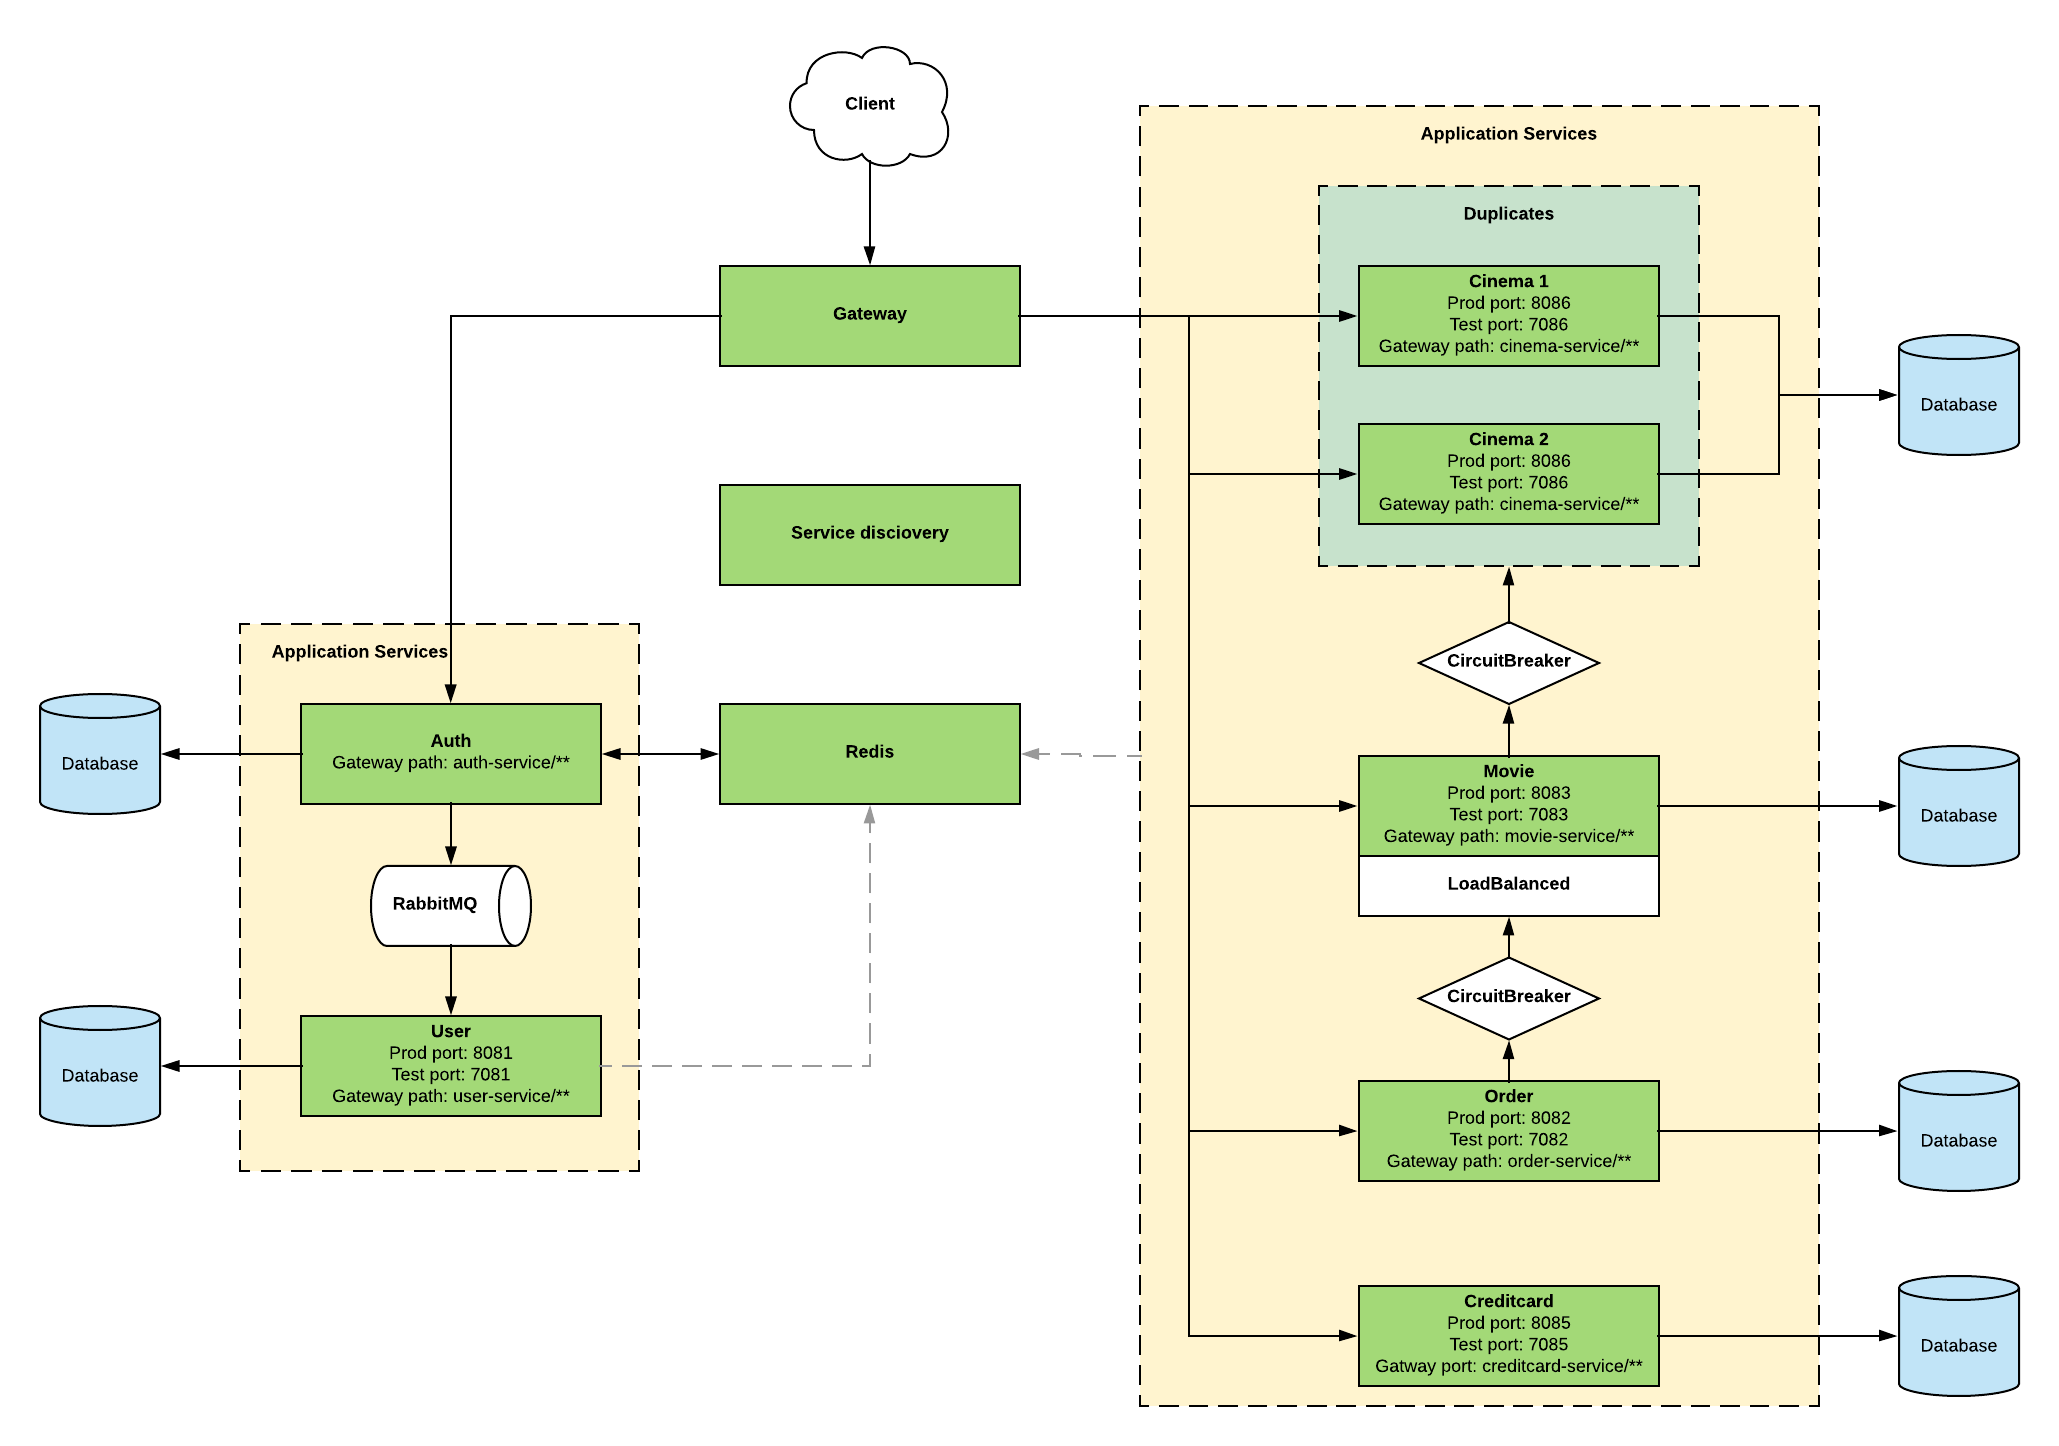
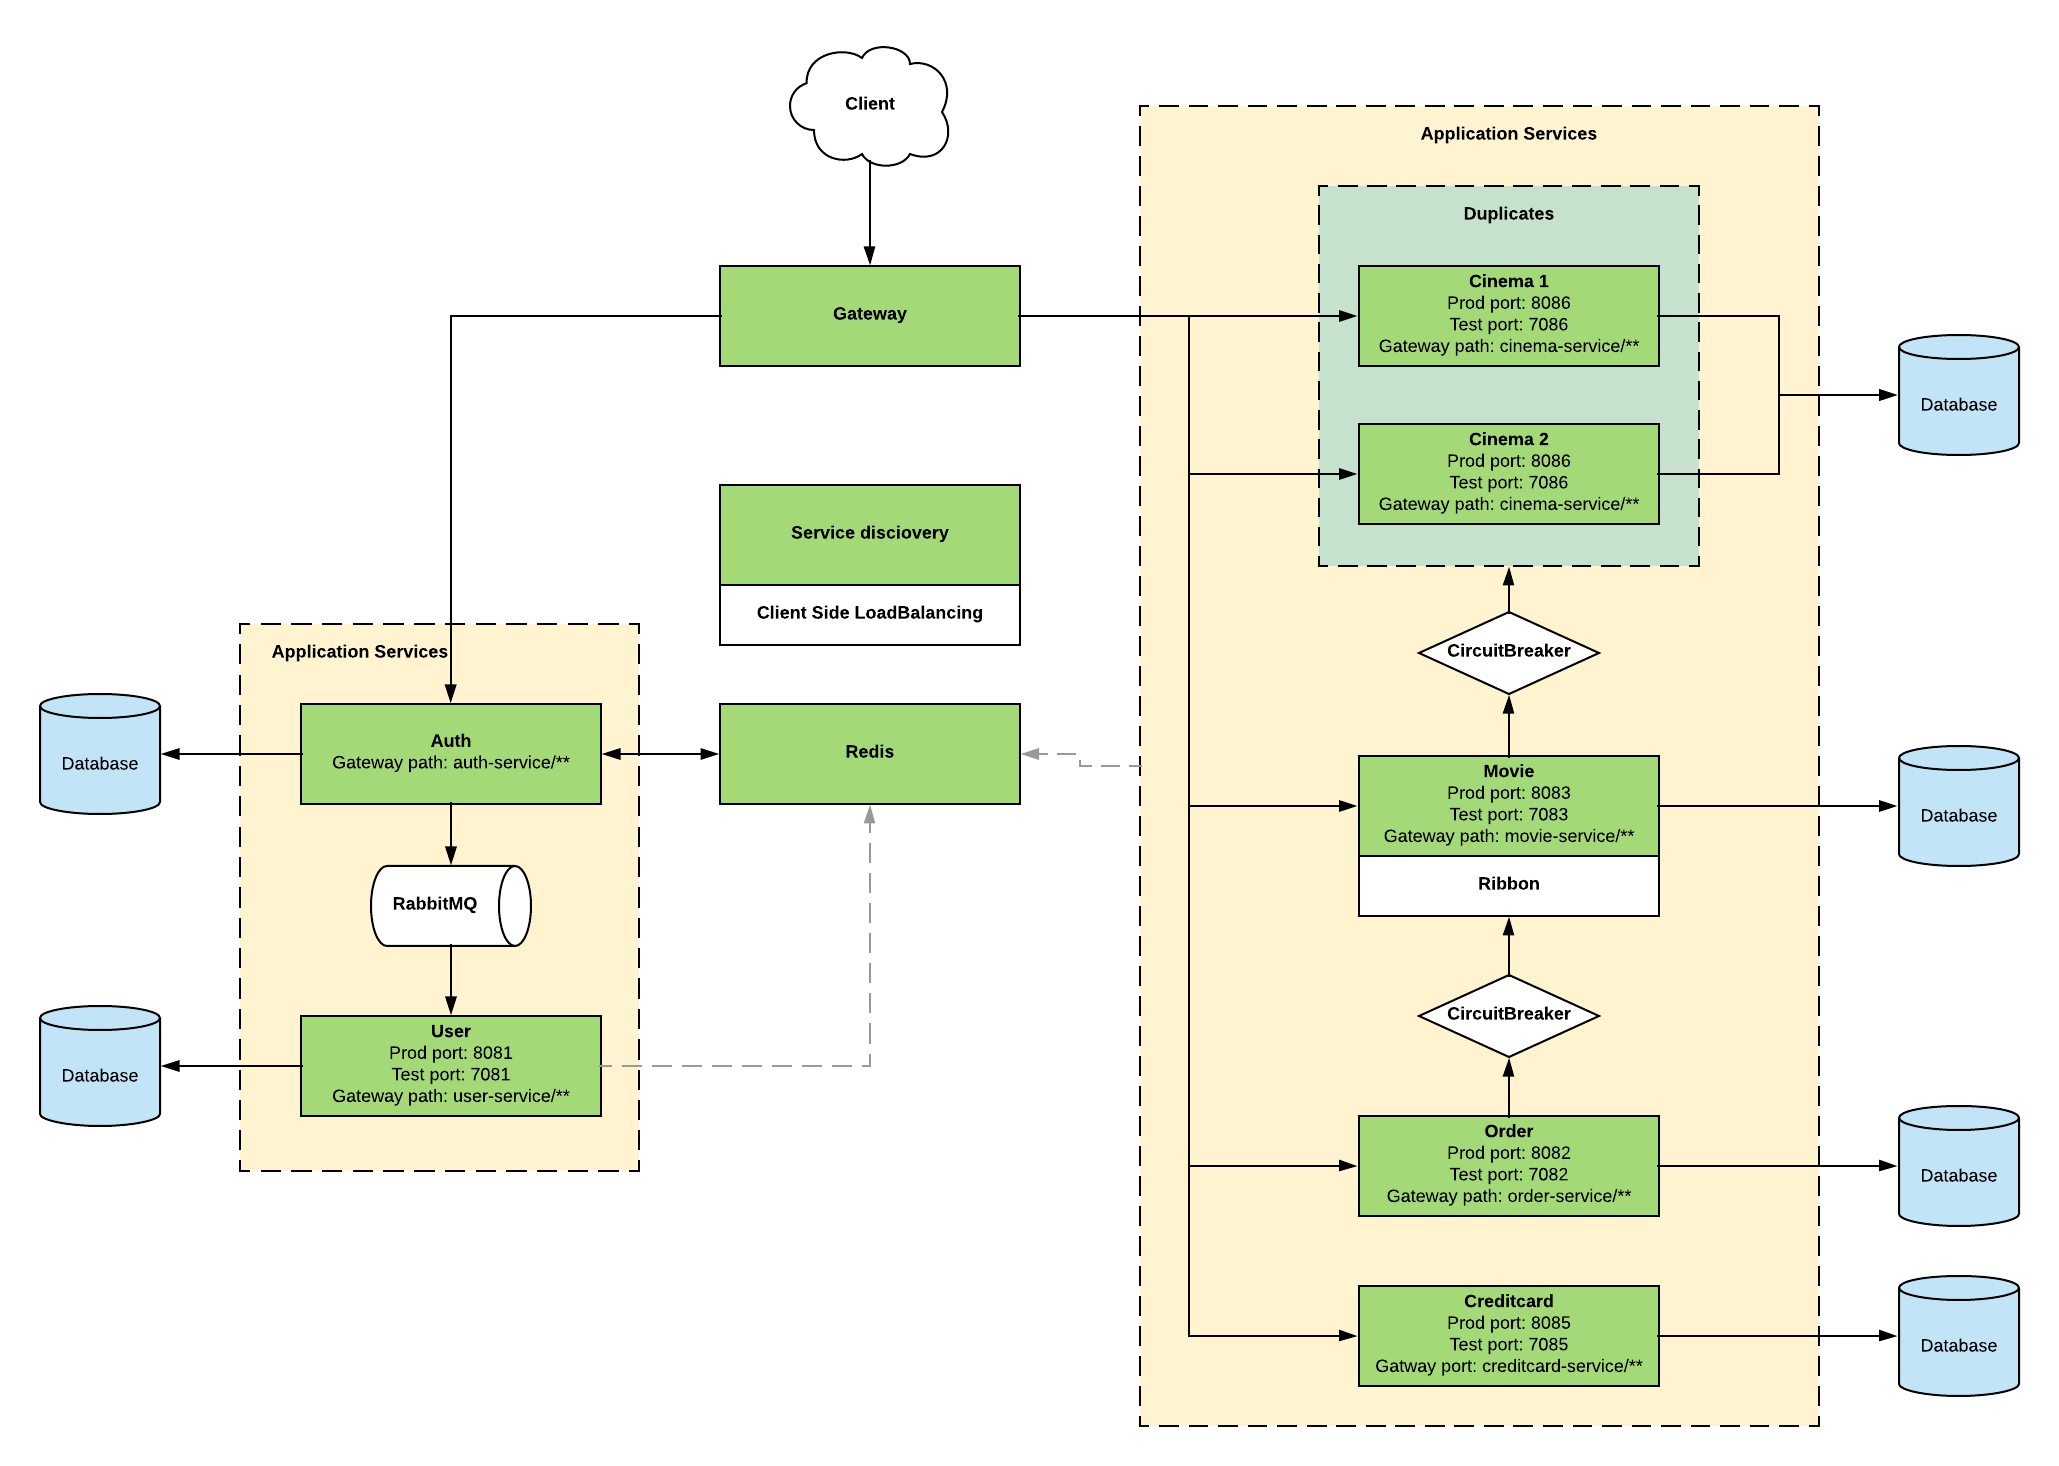
updated module diagram

diff --git a/docs/modulediagram.md b/docs/modulediagram.md
@@ -16,4 +16,4 @@
 - Eureka is used for service discovery and together with ribbon creates Client Side Load Balancing  
 
 
-![Module Diagram](imgs/Module%20diagram.png)
+![Module Diagram2](imgs/Module%20diagram.png)
